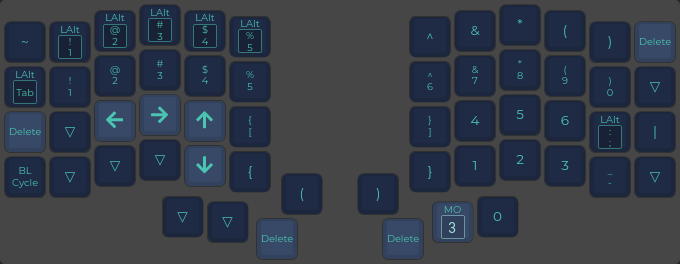
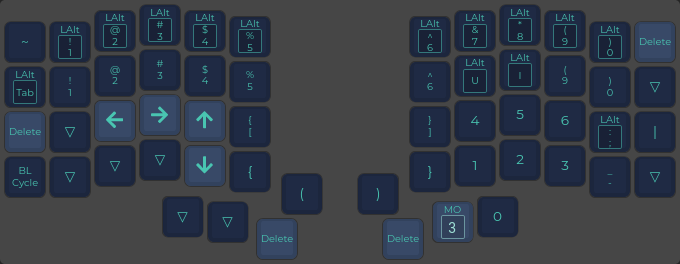
mvp alt tab

diff --git a/keymap.c b/keymap.c
@@ -13,6 +13,7 @@ enum custom_keycodes {
   RAISE,
   ADJUST,
   APEX,
+  ALT_TAB,
 };
 
 const uint16_t PROGMEM keymaps[][MATRIX_ROWS][MATRIX_COLS] = {
@@ -33,10 +34,9 @@ const uint16_t PROGMEM keymaps[][MATRIX_ROWS][MATRIX_COLS] = {
 
   [_LOWER] = LAYOUT(
   //┌────────┬────────┬────────┬────────┬────────┬────────┐                          ┌────────┬────────┬────────┬────────┬────────┬────────┐
-     KC_TILD, LALT(KC_1), LALT(KC_2), LALT(KC_3), LALT(KC_4), LALT(KC_5),             KC_CIRC, KC_AMPR, KC_ASTR, KC_LPRN, KC_RPRN, KC_DEL,
-     /* KC_TILD, KC_EXLM, KC_AT,   KC_HASH, KC_DLR,  KC_PERC,                            KC_CIRC, KC_AMPR, KC_ASTR, KC_LPRN, KC_RPRN, KC_DEL, */
+     KC_TILD, LALT(KC_1), LALT(KC_2), LALT(KC_3), LALT(KC_4), LALT(KC_5),             LALT(KC_6), LALT(KC_7), LALT(KC_8), LALT(KC_9), LALT(KC_0), KC_DEL,
   //├────────┼────────┼────────┼────────┼────────┼────────┤                          ├────────┼────────┼────────┼────────┼────────┼────────┤
-     LALT(KC_TAB), KC_1,    KC_2,    KC_3,    KC_4,    KC_5,                               KC_6,    KC_7,    KC_8,    KC_9,    KC_0,    _______,
+     ALT_TAB, KC_1,    KC_2,    KC_3,    KC_4,    KC_5,                               KC_6,    LALT(KC_U), LALT(KC_I),    KC_9,    KC_0,    _______,
   //├────────┼────────┼────────┼────────┼────────┼────────┤                          ├────────┼────────┼────────┼────────┼────────┼────────┤
      KC_DEL,  _______, KC_LEFT, KC_RGHT, KC_UP,   KC_LBRC,                            KC_RBRC, KC_P4,   KC_P5,   KC_P6,   LALT(KC_SCLN), KC_PIPE,
   //├────────┼────────┼────────┼────────┼────────┼────────┼────────┐        ┌────────┼────────┼────────┼────────┼────────┼────────┼────────┤
@@ -123,14 +123,24 @@ bool process_record_user(uint16_t keycode, keyrecord_t *record) {
       }
       return false;
       break;
-    case ADJUST:
+   case ADJUST:
       if (record->event.pressed) {
-        layer_on(_ADJUST);
+         layer_on(_ADJUST);
       } else {
-        layer_off(_ADJUST);
+         layer_off(_ADJUST);
       }
       return false;
       break;
+    /* case ALT_TAB: */
+    /*   if (record->event.pressed) { */
+    /*      SEND_STRING(SS_DOWN(X_LALT)); */
+    /*      SEND_STRING(SS_TAP(X_TAB)); */
+    /*   } */
+    /*   else { */
+    /*      SEND_STRING(SS_UP(X_TAB)); */
+    /*   } */
+    /*   return false; */
+    /*   break; */
   }
   return true;
 }
